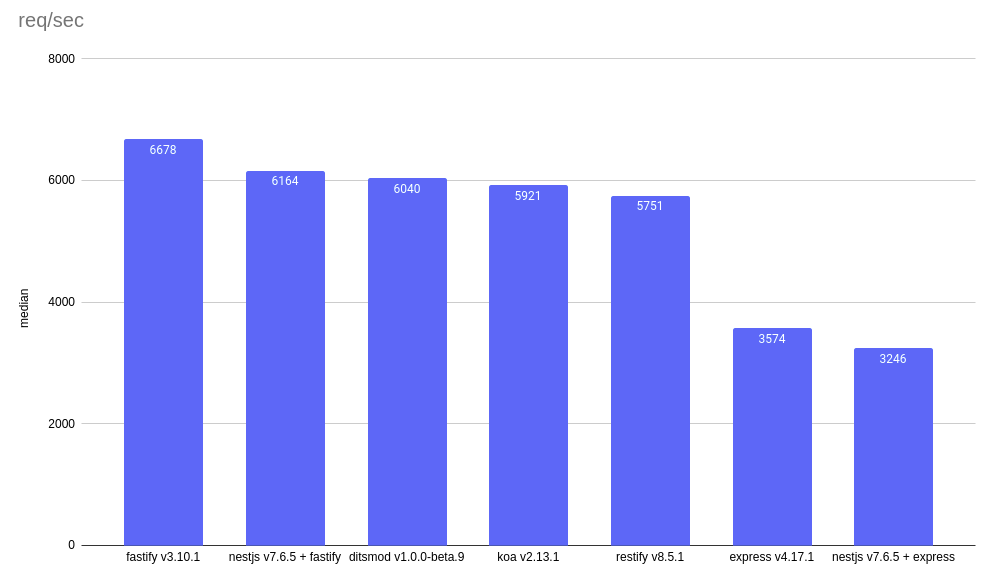
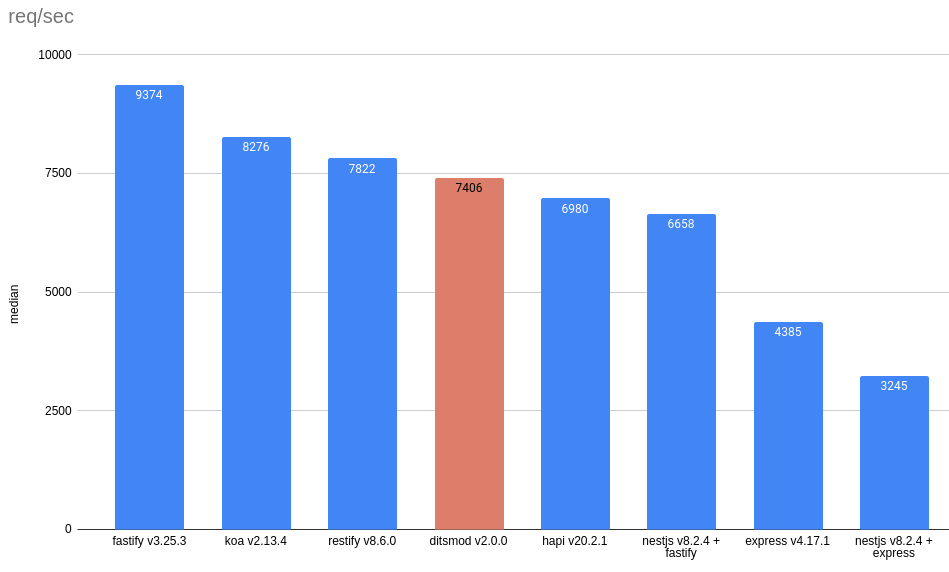
Upgrade to last versions

diff --git a/ditsmod/app/app.module.ts b/ditsmod/app/app.module.ts
@@ -1,9 +1,9 @@
-import { RootModule, Router, Controller, Response, Route } from '@ditsmod/core';
+import { RootModule, Router, Controller, Res, Route } from '@ditsmod/core';
 import { DefaultRouter } from '@ditsmod/router';
 
 @Controller()
 export class HelloWorldController {
-  constructor(private res: Response) {}
+  constructor(private res: Res) {}
 
   @Route('GET', 'hello')
   tellHello() {

diff --git a/ditsmod/main.ts b/ditsmod/main.ts
@@ -3,11 +3,6 @@ import { Application } from '@ditsmod/core';
 
 import { AppModule } from './app/app.module';
 
-new Application()
-  .bootstrap(AppModule)
-  .then(({ server, logger }) => {
-    server.on('error', (err) => logger.error(err));
-  })
-  .catch(({ err, logger }) => {
-    logger.fatal(err);
-  });
+new Application().bootstrap(AppModule).catch((err) => {
+  console.log(err);
+});
